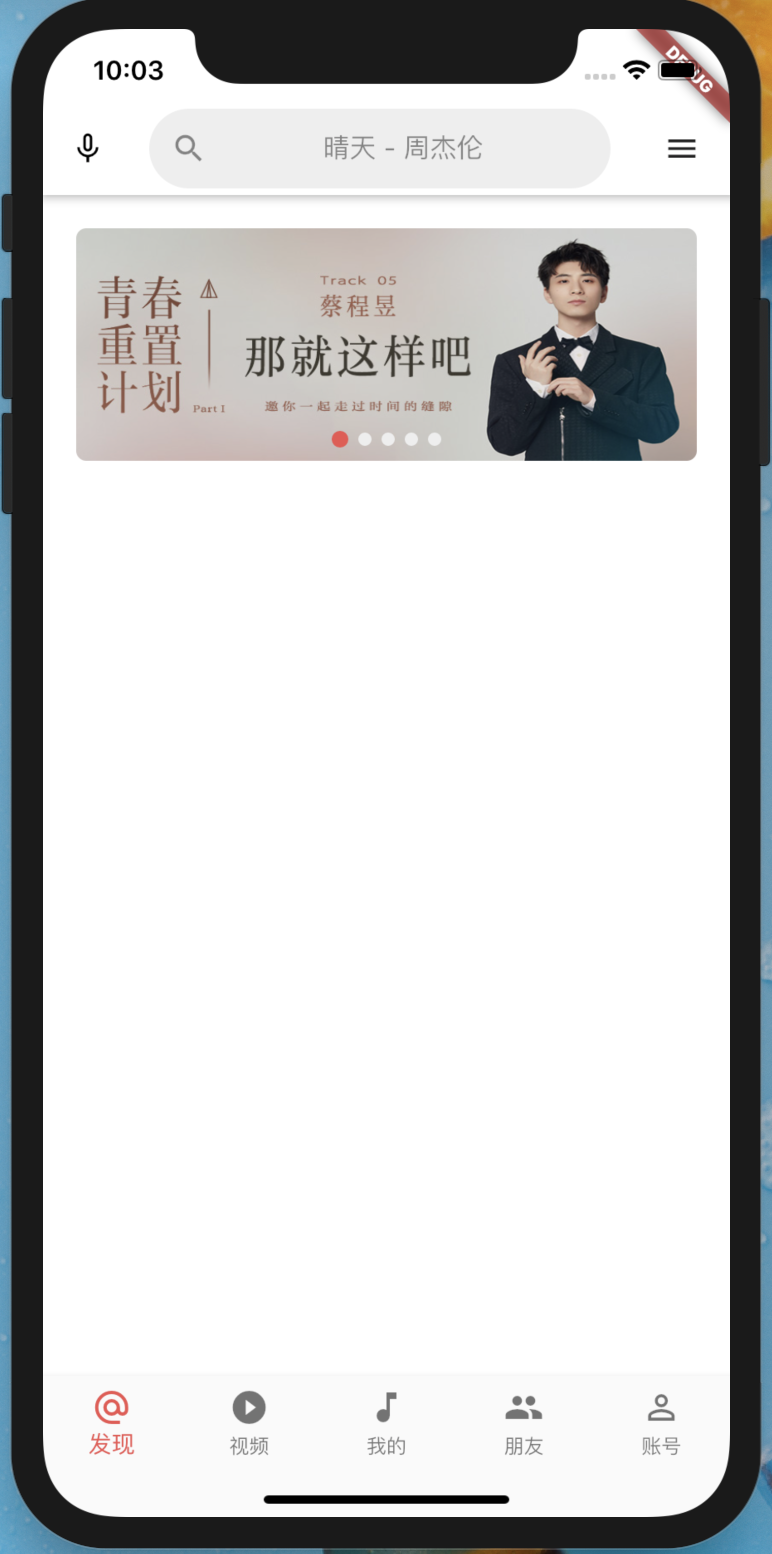
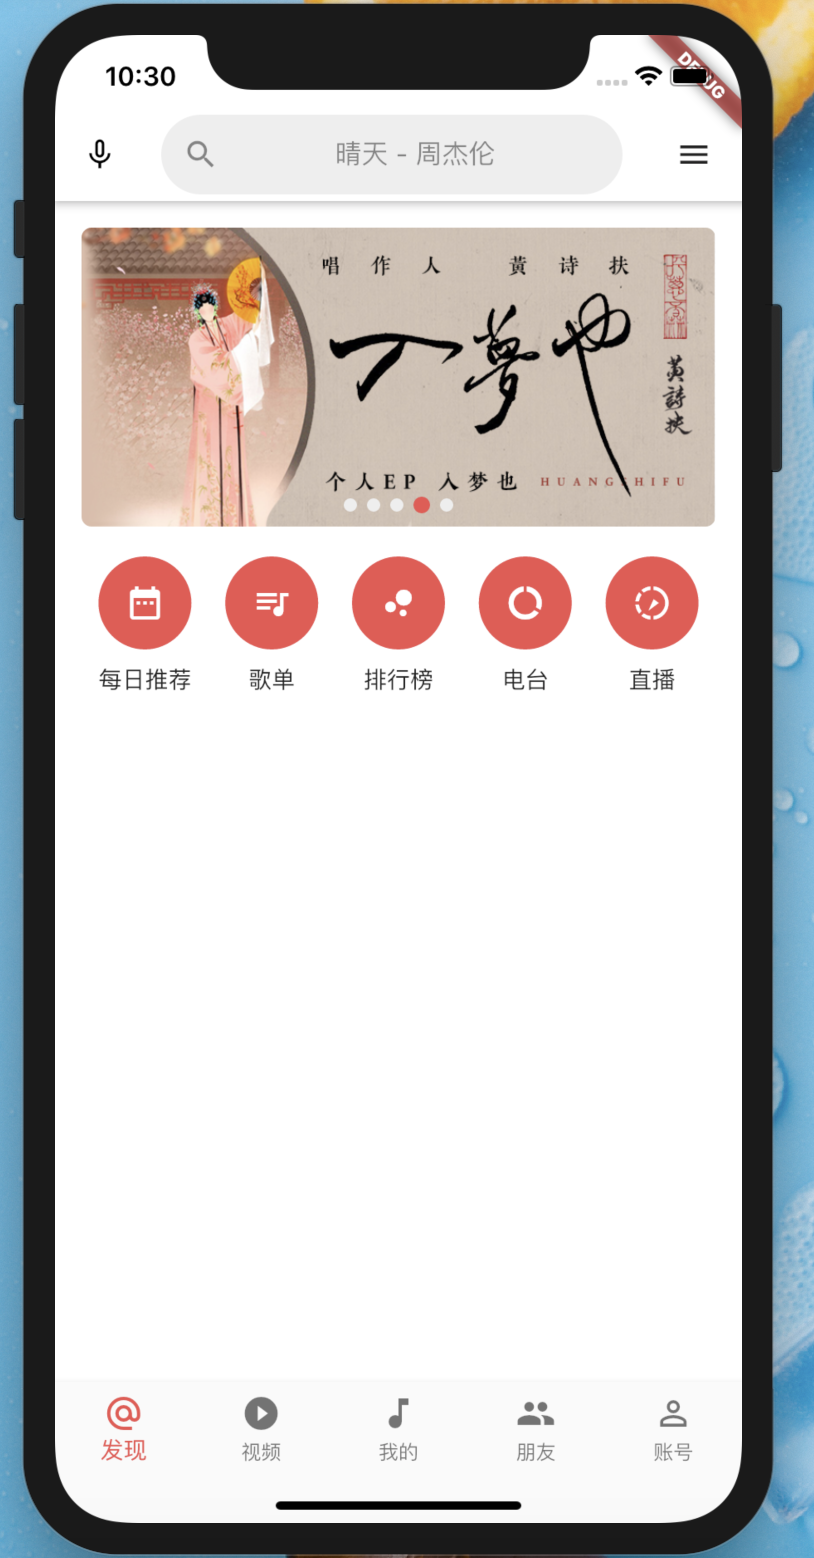
:tada: feat: add nav,

diff --git a/lib/index/banner.dart b/lib/index/banner.dart
@@ -14,24 +14,24 @@ class _SwiperViewState extends State<SwiperView> {
   @override
   void initState() {
     imageList
-    ..add(Image.network(
-      'http://p1.music.126.net/ftH-xPfuregxpeM-Ns-ZXA==/109951164138092434.jpg',
+    ..add(Image.asset(
+      'images/1.jpg',
       fit: BoxFit.fill,
     ))
-    ..add(Image.network(
-      'http://p1.music.126.net/8XCqcLQ4Tgp06D7YUcVY6w==/109951164140076837.jpg',
+    ..add(Image.asset(
+      'images/2.jpg',
       fit: BoxFit.fill,
     ))
-    ..add(Image.network(
-      'http://p1.music.126.net/jqLRnokuYNIeatGmXtxsow==/109951164138668142.jpg',
+    ..add(Image.asset(
+      'images/3.jpg',
       fit: BoxFit.fill,
     ))
-    ..add(Image.network(
-      'http://p1.music.126.net/6KW3ek-RNagXdPh-caxlOQ==/109951164138118639.jpg',
+    ..add(Image.asset(
+      'images/4.jpg',
       fit: BoxFit.fill,
     ))
-    ..add(Image.network(
-      'http://p1.music.126.net/q2B8r5WeRFf8RwdyjrwGKw==/109951164138123358.jpg',
+    ..add(Image.asset(
+      'images/5.jpg',
       fit: BoxFit.fill,
     ));
     super.initState();
@@ -48,8 +48,9 @@ class _SwiperViewState extends State<SwiperView> {
   
   Widget firstSwiperView() {
     return Container(
-      padding: const EdgeInsets.fromLTRB(20, 20, 20, 20),
+      // padding: const EdgeInsets.fromLTRB(20, 20, 20, 20),
       width: MediaQuery.of(context).size.width,
+      margin: EdgeInsets.only(bottom: 18.0),
       height: 180,
       child: ClipRRect(
         borderRadius: BorderRadius.all(Radius.circular(6.0)),

diff --git a/lib/index/nav.dart b/lib/index/nav.dart
@@ -1,0 +1,45 @@
+import 'package:flutter/material.dart';
+import '../config.dart';
+
+class Nav {
+  String text;
+  IconData icon;
+
+  Nav(this.text, this.icon);
+}
+
+List<Nav> navList = [
+  new Nav('每日推荐', Icons.date_range),
+  new Nav('歌单', Icons.queue_music),
+  new Nav('排行榜', Icons.bubble_chart),
+  new Nav('电台', Icons.data_usage),
+  new Nav('直播', Icons.slow_motion_video),
+];
+
+class NavView extends StatelessWidget {
+
+  Widget item(item) {
+    return Expanded(
+      child: Column(children: <Widget>[
+        new Container(
+          width: 56,
+          height: 56,
+          child: new Icon(item.icon, color: Colors.white),
+          margin: EdgeInsets.only(bottom: 8.0),
+          decoration: BoxDecoration(
+            shape: BoxShape.circle,
+            color: GlobalConfig.navColor,
+          ),
+        ),
+        new Text(item.text)
+      ],)
+    );
+  }
+
+  @override
+  Widget build(BuildContext context) {
+    return Row(
+      children: navList.map((nav) => item(nav)).toList()
+    );
+  }
+}

diff --git a/lib/index/index.dart b/lib/index/index.dart
@@ -1,6 +1,7 @@
 import 'package:flutter/material.dart';
 import '../config.dart';
 import './banner.dart';
+import './nav.dart';
 
 class MyApp extends StatelessWidget {
   // This widget is the root of your application.
@@ -76,9 +77,11 @@ class _MyHomePageState extends State<MyHomePage> {
         backgroundColor: Colors.white
       ),
       body: new SingleChildScrollView(
+        padding: new EdgeInsets.all(16),
         child: new Column(
           children: <Widget>[
-            SwiperView()
+            SwiperView(),
+            NavView()
           ],
         ),
       ),

diff --git a/README.md b/README.md
@@ -4,4 +4,4 @@ A new Flutter application.
 
 # preview
 
-![avatar](/assets/1.gif)
+![avatar](/assets/1.png)
